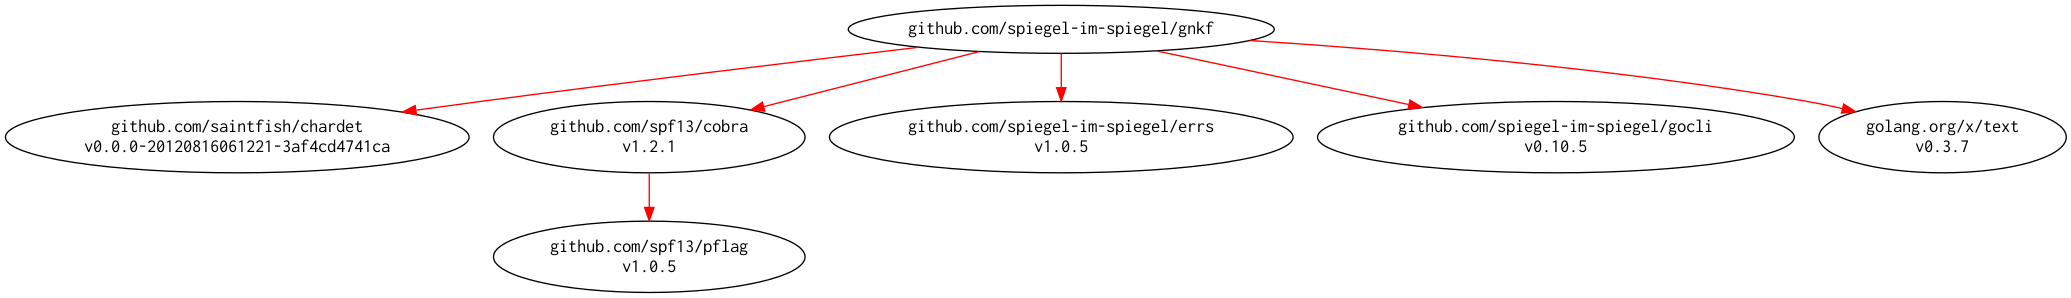
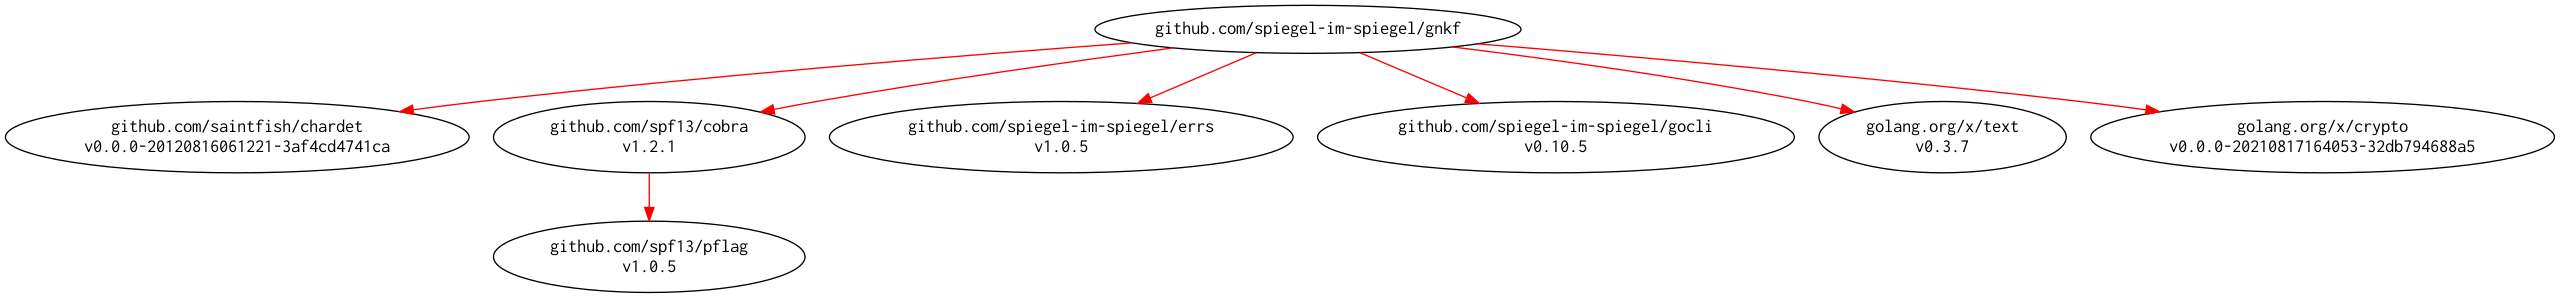
Add bcrypt command

diff --git a/facade/bcrypt.go b/facade/bcrypt.go
@@ -1,0 +1,78 @@
+package facade
+
+import (
+	"fmt"
+
+	"github.com/spf13/cobra"
+	"github.com/spiegel-im-spiegel/errs"
+	"github.com/spiegel-im-spiegel/gnkf/bcrypt"
+	"github.com/spiegel-im-spiegel/gnkf/ecode"
+	"github.com/spiegel-im-spiegel/gocli/rwi"
+)
+
+//newNormCmd returns cobra.Command instance for show sub-command
+func newBCryptCmd(ui *rwi.RWI) *cobra.Command {
+	bcryptCmd := &cobra.Command{
+		Use:     "bcrypt [flags] string [string...]",
+		Aliases: []string{"bc"},
+		Short:   "Hash and compare by BCrypt",
+		Long:    "Hash and compare by BCrypt.",
+		RunE: func(cmd *cobra.Command, args []string) error {
+			//Options
+			cost, err := cmd.Flags().GetInt("cost")
+			if err != nil {
+				return debugPrint(ui, errs.New("Error in --cost option", errs.WithCause(err)))
+			}
+			hashed, err := cmd.Flags().GetString("compare")
+			if err != nil {
+				return debugPrint(ui, errs.New("Error in --compare option", errs.WithCause(err)))
+			}
+
+			if len(args) == 0 {
+				return debugPrint(ui, errs.Wrap(ecode.ErrNoData))
+			}
+			if len(hashed) > 0 {
+				_ = ui.OutputErrln(fmt.Sprintf("compare BCrypt hashed string '%s' to...", hashed))
+			}
+
+			//Run command
+			var lastErr error
+			for _, s := range args {
+				if len(hashed) > 0 {
+					if err := bcrypt.Compare(hashed, s); err != nil {
+						_ = ui.OutputErrln(s, ":", err)
+					} else {
+						_ = ui.OutputErrln(s, ":", "match!")
+					}
+				} else {
+					if h, err := bcrypt.Hash(s, cost); err != nil {
+						lastErr = errs.Wrap(err, errs.WithContext("string", s), errs.WithContext("cost", cost))
+						_ = ui.OutputErrln(err)
+					} else {
+						_ = ui.Outputln(h)
+					}
+				}
+			}
+			return debugPrint(ui, lastErr)
+		},
+	}
+	bcryptCmd.Flags().IntP("cost", "c", bcrypt.DefaultCost, fmt.Sprintf("BCrypt cost (%d-%d)", bcrypt.MinCost, bcrypt.MaxCost))
+	bcryptCmd.Flags().StringP("compare", "", "", "compare to BCrypt hashed string")
+
+	return bcryptCmd
+}
+
+/* Copyright 2020-2021 Spiegel
+ *
+ * Licensed under the Apache License, Version 2.0 (the "License");
+ * you may not use this file except in compliance with the License.
+ * You may obtain a copy of the License at
+ *
+ * 	http://www.apache.org/licenses/LICENSE-2.0
+ *
+ * Unless required by applicable law or agreed to in writing, software
+ * distributed under the License is distributed on an "AS IS" BASIS,
+ * WITHOUT WARRANTIES OR CONDITIONS OF ANY KIND, either express or implied.
+ * See the License for the specific language governing permissions and
+ * limitations under the License.
+ */

diff --git a/bcrypt/bcrypt.go b/bcrypt/bcrypt.go
@@ -1,0 +1,44 @@
+package bcrypt
+
+import (
+	"github.com/spiegel-im-spiegel/errs"
+	"golang.org/x/crypto/bcrypt"
+)
+
+const (
+	MinCost     int = bcrypt.MinCost
+	MaxCost     int = bcrypt.MaxCost
+	DefaultCost int = bcrypt.DefaultCost
+)
+
+//Hash function returns hashed string by BCrypt algorithm.
+func Hash(s string, cost int) (string, error) {
+	b, err := bcrypt.GenerateFromPassword([]byte(s), cost)
+	if err != nil {
+		return "", errs.Wrap(err)
+	}
+	return string(b), nil
+}
+
+//Compare function compares a bcrypt hashed string with its possible plaintext equivalent. Returns nil on success, or an error on failure.
+func Compare(h, s string) error {
+	if err := bcrypt.CompareHashAndPassword([]byte(h), []byte(s)); err != nil {
+		return errs.Wrap(err)
+	}
+	return nil
+}
+
+/* Copyright 2021 Spiegel
+ *
+ * Licensed under the Apache License, Version 2.0 (the "License");
+ * you may not use this file except in compliance with the License.
+ * You may obtain a copy of the License at
+ *
+ * 	http://www.apache.org/licenses/LICENSE-2.0
+ *
+ * Unless required by applicable law or agreed to in writing, software
+ * distributed under the License is distributed on an "AS IS" BASIS,
+ * WITHOUT WARRANTIES OR CONDITIONS OF ANY KIND, either express or implied.
+ * See the License for the specific language governing permissions and
+ * limitations under the License.
+ */

diff --git a/bcrypt/bcrypt_test.go b/bcrypt/bcrypt_test.go
@@ -1,0 +1,21 @@
+package bcrypt_test
+
+import (
+	"fmt"
+	"testing"
+
+	"github.com/spiegel-im-spiegel/gnkf/bcrypt"
+)
+
+func TestBCrypt(t *testing.T) {
+	s := "password"
+	h, err := bcrypt.Hash(s, bcrypt.DefaultCost)
+	if err != nil {
+		t.Errorf("Hash() error = \"%+v\", want nil.", err)
+	}
+	fmt.Println(h)
+	err = bcrypt.Compare(h, s)
+	if err != nil {
+		t.Errorf("Compare() is \"%+v\", want nil.", err)
+	}
+}

diff --git a/facade/facade.go b/facade/facade.go
@@ -49,6 +49,7 @@ func newRootCmd(ui *rwi.RWI, args []string) *cobra.Command {
 		newRemoveBomCmd(ui),
 		newCompletionCmd(ui),
 		newhashCmd(ui),
+		newBCryptCmd(ui),
 	)
 
 	//global options

diff --git a/README.md b/README.md
@@ -262,10 +262,39 @@ $ echo SGVsbG8gV29ybGQK | gnkf b64 -d
 Hello World
 ```
 
+### gnkf bcrypt command
+
+```
+$ gnkf bcrypt -h
+Hash and compare by BCrypt.
+
+Usage:
+  gnkf bcrypt [flags] string [string...]
+
+Aliases:
+  bcrypt, bc
+
+Flags:
+      --compare string   compare to BCrypt hashed string
+  -c, --cost int         BCrypt cost (4-31) (default 10)
+  -h, --help             help for bcrypt
+
+Global Flags:
+      --debug   for debug
+
+$ gnkf bc password
+$2a$10$vvbBuQoVR9AFis6J4xtZ0espSfe976pZ1Em669nhdg2loAm2Yjxl2
+
+
+$ gnkf bc --compare '$2a$10$vvbBuQoVR9AFis6J4xtZ0espSfe976pZ1Em669nhdg2loAm2Yjxl2' password
+compare BCrypt hashed string '$2a$10$vvbBuQoVR9AFis6J4xtZ0espSfe976pZ1Em669nhdg2loAm2Yjxl2' to...
+password : match!
+```
+
 ### gnkf hash command
 
 ```
-$ gnkf base64 -h
+$ gnkf hash -h
 Print or check hash value.
   Support algorithm:
   MD5, SHA-1, SHA-224, SHA-256, SHA-384, SHA-512, SHA-512/224, SHA-512/256
